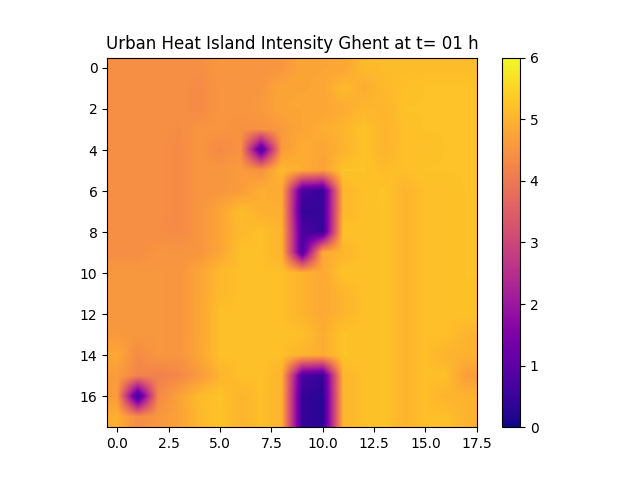
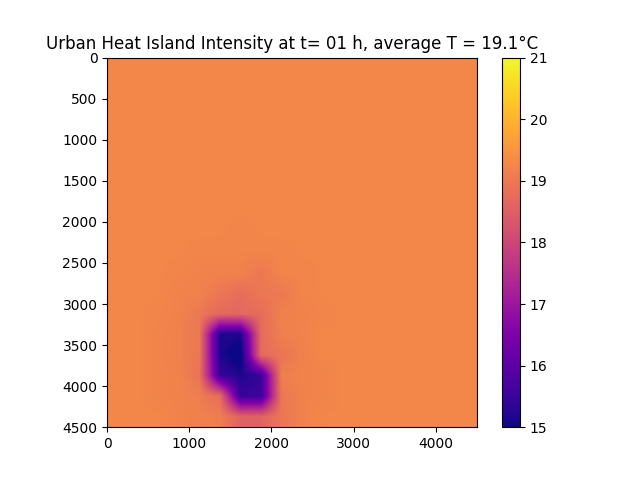
added a ANN model + some details on the buttons

diff --git a/GUI/gui_utility.py b/GUI/gui_utility.py
@@ -63,29 +63,75 @@ class GUI_Main_Page:
         button_frame = tk.Frame(self.root , pady=30)
         self.btn_retake     = CustomButton(button_frame, text = "Retake", state =  self.__get_button_status__(False), command = self.action_retake)
         self.btn_capture    = CustomButton(button_frame, text = "Capture", state = self.__get_button_status__(True), command = self.action_capture)
-        self.btn_submit     = CustomButton(button_frame, text = "Submit", state = self.__get_button_status__(False), command = self.action_submit)
+        #self.btn_submit     = CustomButton(button_frame, text = "Submit", state = self.__get_button_status__(False), command = self.action_submit)
         self.close_extra    = CustomButton(button_frame, text = "Close Extra", state = self.__get_button_status__(True), command = self.action_close_extra_pages)
+        self.btn_send_picture = CustomButton(
+        button_frame, 
+        text="Calculate", 
+        state=self.__get_button_status__(False), 
+        command=self.send_picture_to_server
+        )
+        
+        self.btn_process_display = CustomButton(
+        button_frame, 
+        text="Save", 
+        state=self.__get_button_status__(False), 
+        command=self.process_and_display_image
+        )
 
         self.btn_capture.pack(side=tk.LEFT, padx=(10, 10))
         self.btn_retake.pack(side=tk.LEFT, padx=(0, 10))
-        self.btn_submit.pack(side=tk.LEFT, padx=(0, 10))
+        #self.btn_submit.pack(side=tk.LEFT, padx=(0, 10))        
+        self.btn_send_picture.pack(side=tk.LEFT, padx=(0, 10))
+        self.btn_process_display.pack(side=tk.LEFT, padx=(0, 10))
         self.close_extra.pack(side=tk.LEFT, padx=(0, 10))
         button_frame.pack()
 
 
-        # Dropdown Frame:
-        dropdown_frame = tk.Frame(self.root)
-        dropdown_frame.pack(pady=10)
-
-        # Create Label Field
-        self.label_field = tk.Label(dropdown_frame, text="Choose Scale: ")
-        self.label_field.pack(side=tk.LEFT)
-
-        # Intialize Drop Down Bar
-        json_path = "GUI/Scales.json"
-        json_data = HD_Utility.read_json_file(json_path)
-        self.drop_down = DropDownBar(dropdown_frame, json_data)
-        self.drop_down.create_dropdown()
+# =============================================================================
+#         # Dropdown Frame:
+#         dropdown_frame = tk.Frame(self.root)
+#         dropdown_frame.pack(pady=10)
+# 
+#         # Create Label Field
+#         self.label_field = tk.Label(dropdown_frame, text="Choose Scale: ")
+#         self.label_field.pack(side=tk.LEFT)
+# 
+#         # Intialize Drop Down Bar
+#         json_path = "GUI/Scales.json"
+#         json_data = HD_Utility.read_json_file(json_path)
+#         self.drop_down = DropDownBar(dropdown_frame, json_data)
+#         self.drop_down.create_dropdown()
+# =============================================================================
+        
+        
+        # Dropdown Frame 1:
+        dropdown_frame1 = tk.Frame(self.root)
+        dropdown_frame1.pack(pady=10, padx=(300, 0), side=tk.LEFT)
+        
+        # Create Label Field for Dropdown 1
+        self.label_field1 = tk.Label(dropdown_frame1, text="Choose Scale: ")
+        self.label_field1.pack(side=tk.LEFT)
+        
+        # Initialize Drop Down Bar for Dropdown 1
+        json_path1 = "GUI/Scales.json"
+        json_data1 = HD_Utility.read_json_file(json_path1)
+        self.drop_down1 = DropDownBar(dropdown_frame1, json_data1)
+        self.drop_down1.create_dropdown()
+        
+        # Dropdown Frame 2:
+        dropdown_frame2 = tk.Frame(self.root)
+        dropdown_frame2.pack(pady=10, padx=(250, 0), side=tk.LEFT)
+        
+        # Create Label Field for Dropdown 2
+        self.label_field2 = tk.Label(dropdown_frame2, text="Mode: ")
+        self.label_field2.pack(side=tk.LEFT)
+        
+        # Initialize Drop Down Bar for Dropdown 2
+        json_path2 = "GUI/Modes.json"  # Change this path if you're pulling from a different file
+        json_data2 = HD_Utility.read_json_file(json_path2)
+        self.drop_down2 = DropDownBar(dropdown_frame2, json_data2)
+        self.drop_down2.create_dropdown()
 
         # End of Loop
         self.root.mainloop()
@@ -108,7 +154,9 @@ class GUI_Main_Page:
     def __change_buttons_status__(self, capturing):
         self.btn_capture.config(state = self.__get_button_status__(capturing))
         self.btn_retake.config(state = self.__get_button_status__(not capturing))
-        self.btn_submit.config(state = self.__get_button_status__(not capturing))
+        #self.btn_submit.config(state = self.__get_button_status__(not capturing))
+        self.btn_send_picture.config(state = self.__get_button_status__(not capturing))
+        self.btn_process_display.config(state = self.__get_button_status__(capturing))
 
     def action_capture(self):
         self.__change_buttons_status__(capturing = False)
@@ -137,7 +185,7 @@ class GUI_Main_Page:
         #################### Image Processing ###################
         try:
             # Send the Image to Andrei's Model
-            img_heatmap_processed = back_end_run(img_label, scale)
+            img_heatmap_processed = back_end_run(img_label, scale,'a')
             img_heatmap_processed.save("Heatmap_processed.png")
 
 
@@ -221,3 +269,87 @@ class GUI_Main_Page:
         new_image = self.read_image(self.default_img_path)
         self.label.configure(image=new_image)
         self.label.image = new_image
+        
+        
+        
+        
+        
+        
+    def send_picture_to_server(self):
+        """Function to send the image to the server and receive a heatmap in response."""
+        self.__change_buttons_status__(capturing=True)
+        
+        # Get Panel data
+        scale = float(self.drop_down1.get_selected_value())
+        img_label = self.label.image
+        img_label = ImageTk.getimage(img_label)
+        img_label.save("img_label.png")
+    
+        try:
+            # Send the Image to Andrei's Model
+            img_heatmap_processed = back_end_run(img_label, scale,"a")
+            img_heatmap_processed.save("Heatmap_processed.png")
+            
+            # Update The Image
+            img_heatmap_processed = ImageTk.PhotoImage(img_heatmap_processed)
+            self.label.configure(image=img_heatmap_processed)
+            self.label.image = img_heatmap_processed
+        except Exception as e:
+            print("Exception: Andrei's Code Not Working in gui_utility.py")
+            print(e)
+            img_heatmap_processed = self.read_image()
+    
+        return img_heatmap_processed
+
+    def process_and_display_image(self):
+        img_heatmap_processed = Image.open("Heatmap_processed.png")
+        img_heatmap_processed = ImageTk.PhotoImage(img_heatmap_processed)
+        
+        """Function to process and display the heatmap, create QR code, and display final plots."""
+        
+        # Make a PDF File
+        pdf_file_name = "Sample PDF.pdf"
+        pdf_texts = (self.pdf_texts_json['french'], self.pdf_texts_json['english'], self.pdf_texts_json['dutch'])
+        HD_Utility.create_pdf(("img_label.png", "Heatmap_processed.png"), pdf_texts, pdf_file_name)
+        
+        # Server Uploading
+        file_name_in_drive = f'Analysis_{datetime.now().strftime("%d_%m_%Y_%H_%M_%S")}.jpg'
+        HD_Utility.pdf2jpg(pdf_file_name, file_name_in_drive)
+        url = self.server_handler.upload_new_document(path_to_file=file_name_in_drive)
+        print(f"Uploaded File to: {url}")
+        
+        size = (400, 400)
+        img1 = HD_Utility.load_and_resize_image("GUI/vub.png", size)
+        img3 = HD_Utility.load_and_resize_image("GUI/vub.png", size)
+        img2 = HD_Utility.load_and_resize_image("GUI/vub.png", size)
+
+
+        try:
+        # Cat three plots (img1, img2, qr)
+            img1 = HD_Utility.load_and_resize_image("img_label.png", size)
+            img3 = HD_Utility.load_and_resize_image('qr.png', (200,200))
+            img2 = HD_Utility.load_and_resize_image("Heatmap_processed.png", size)
+
+        except:
+            print("Exception in gui_utility: QR or Heatmap not found.")
+
+        # Merge Plots
+        new_img = HD_Utility.create_concatenated_image(img1, img2, img3)
+        final_plot = ImageTk.PhotoImage(new_img)
+        
+        new_window = tk.Toplevel(self.root)
+        label = tk.Label(new_window, image=final_plot)
+        label.image = final_plot  # keep a reference to the image
+        label.pack()
+        self.new_created_windows.append(new_window)
+
+        # Update The Image
+        final_plot = ImageTk.PhotoImage(new_img)
+        self.label.configure(image=final_plot)
+        self.label.image = final_plot
+        
+    
+    # Example of how to use the functions:
+    # img_heatmap_processed = self.send_picture_to_server()
+    # self.process_and_display_image(img_heatmap_processed)
+

diff --git a/back_end/functions.py b/back_end/functions.py
@@ -37,7 +37,7 @@ def count_value_in_kernel2(matrix, radius):
     kernel_area = (1+radius*2)*(1+radius*2)
 
 
-    sub_rad = int(radius / 5) #250 m
+    sub_rad = int(radius / 4) #250 m
     sub_kernel = generate_circle_kernel(sub_rad)
     kernel_sub_area = (1+sub_rad*2)*(1+sub_rad*2)
 
@@ -151,8 +151,11 @@ def pad_matrix(matrix, r):
 
 
 
-def plot_heatmap(matrix, color, intp, vmin=None, vmax=None):
-    heatmap = plt.imshow(matrix, cmap=color, interpolation=intp, vmin=vmin, vmax=vmax)
+def plot_heatmap(matrix, color, intp, vmin=None, vmax=None, scale=1):
+    # Define the extent for the scaling
+    extent = [0, matrix.shape[1] * scale, matrix.shape[0] * scale, 0]
+    
+    heatmap = plt.imshow(matrix, cmap=color, interpolation=intp, vmin=vmin, vmax=vmax, extent=extent)
     colorbar = plt.colorbar(heatmap)
     plt.show()
     
@@ -292,8 +295,12 @@ def median_filter_custom(image, kernel_size):
 
     return filtered_image
 
-def run_module(image,scale):
+def run_module(image,scale,scenario):
     # takes in a PIL image and a scale (needs to be a an integer)
+    if scenario == "a":
+        time_='2020-09-15 01:00:00'
+    elif  scenario == "b":
+        time_='2020-09-15 14:00:00'
     res = 18
     scale = int(scale)
     start_time = time.time()
@@ -338,7 +345,7 @@ def run_module(image,scale):
     df_reff.loc[0,'GREEN'] = 1.0
     df_reff['Station']= 'vlinder05'
 
-    time_='2020-09-15 01:00:00'
+    
     df_vlinder = pd.read_csv(os.path.join(subdirectory_path,'big_2020_09.csv' ))
     df_vlinder=df_vlinder.rename(columns={"short_wave_from_sky_1hour":"SHORT_WAVE_FROM_SKY_1HOUR","net_radiation_1hour":"NET_RADIATION_1HOUR"})
     df_vlinder=df_vlinder[df_vlinder['Vlinder']=='vlinder05']
@@ -358,11 +365,12 @@ def run_module(image,scale):
 
     T_reff=model.predict(df_reff)
     arr = np.array(temp)
-    arr= arr - T_reff
+    #arr= arr - T_reff
+    T_mid = np.mean(arr)
     xd=np.reshape(arr,(rows,cols))
     fig = plt.figure()
-    functions.plot_heatmap(xd, 'plasma', 'bilinear',vmin=0, vmax=6)
-    plt.title('Urban Heat Island Intensity Ghent at t= 01 h')
+    functions.plot_heatmap(xd, 'plasma', 'bilinear', vmin=15, vmax=21, scale= 1000/scale)
+    plt.title('Urban Heat Island Intensity at t= 01 h, average T = {:.1f}°C'.format(T_mid))
     plt.savefig(os.path.join(subdirectory_path,'output.png'), format='png')
     final_plot = plt_to_image(fig)
     plt.close()
@@ -395,5 +403,109 @@ def plt_to_image(fig):
     image_rgb = image.convert("RGB")
     
     return image_rgb
+
+# =============================================================================
+# def run_module_ANN(image,scale):
+#     from tensorflow.keras.models import load_model
+#     from joblib import load
+# 
+#     
+#     # takes in a PIL image and a scale (needs to be a an integer)
+#     res = 18
+#     scale = int(scale)
+#     start_time = time.time()
+#     color_high_res = png_to_image(image)
+#     low_res = reduce_resolution(color_high_res, 320 , 320)
+#     new_=median_filter_custom(low_res, 6)
+#     low_res = reduce_resolution(new_, res , res)
+#     
+#     low_res_matrix = png_to_image2(low_res)
+#     
+#     cmap=functions.create_green_to_blue_cmap()
+#     plt.figure()
+#     functions.plot_heatmap(low_res_matrix, cmap, 'nearest',vmin=1, vmax=3)
+#     plt.show()
+# 
+# 
+#     #cale = int(scale * 20)
+#     fracs = functions.count_value_in_kernel2(low_res_matrix, scale)
+# 
+#     rows = res
+#     cols = res
+#     
+#     
+#     current_directory = os.getcwd()
+#     subdirectory_name = "back_end/plots"
+#     # Create the path to the subdirectory
+#     subdirectory_path = os.path.join(current_directory, subdirectory_name)
+# 
+#     col_to_keep = ['ALT', 'WATER', 'GREEN', 'IMPERVIOUS', 'WATER_1000', 'GREEN_1000',
+#            'IMPERVIOUS_1000', 'SHORT_WAVE_FROM_SKY_1HOUR', 't2m_inca',
+#            'rel_humid_inca', 'wind_speed_inca', 'max_t2m_inca', 'min_t2m_inca']
+# 
+#     df = pd.DataFrame(fracs)
+#     df=df.rename(columns={0:'WATER_1000', 1:'GREEN_1000', 2:'IMPERVIOUS_1000', 3:'WATER', 4:'GREEN', 5:'IMPERVIOUS',})
+# 
+#     df_reff=df.head(1).copy()
+#     df_reff.loc[0,'WATER_1000'] = 0.0
+#     df_reff.loc[0,'WATER'] = 0.0
+#     df_reff.loc[0,'IMPERVIOUS_1000'] = 0.0
+#     df_reff.loc[0,'IMPERVIOUS'] = 0.0
+#     df_reff.loc[0,'GREEN_1000'] = 1.0
+#     df_reff.loc[0,'GREEN'] = 1.0
+#     df_reff['Station']= 'vlinder05'
+# 
+#     time_='2020-09-15 01:00:00'
+#     df_vlinder = pd.read_csv(os.path.join(subdirectory_path,'big_2020_09.csv' ))
+#     df_vlinder=df_vlinder.rename(columns={"short_wave_from_sky_1hour":"SHORT_WAVE_FROM_SKY_1HOUR","net_radiation_1hour":"NET_RADIATION_1HOUR"})
+#     df_vlinder=df_vlinder[df_vlinder['Vlinder']=='vlinder05']
+#     df_vlinder=df_vlinder[df_vlinder['datetime']==time_]
+#     df_vlinder=df_vlinder[['ALT','SHORT_WAVE_FROM_SKY_1HOUR', 't2m_inca',
+#            'rel_humid_inca', 'wind_speed_inca', 'max_t2m_inca', 'min_t2m_inca','Vlinder']]
+#     df['Station']= 'vlinder05'
+#     df=df.merge(df_vlinder,how='left',left_on='Station',  right_on='Vlinder')
+#     df_reff=df_reff.merge(df_vlinder,how='left',left_on='Station',  right_on='Vlinder')
+#     df=df[col_to_keep]
+#     df_reff=df_reff[col_to_keep]
+#     #dftrain.pop('station')
+#     col_to_scale=['ALT','t2m_inca', 'rel_humid_inca', 'wind_speed_inca',
+#                   'SHORT_WAVE_FROM_SKY_1HOUR','max_t2m_inca', 'min_t2m_inca'] 
+#     main_scaler = joblib.load(os.path.join(subdirectory_path,"minmax_scaler_main.joblib"))
+#     df[col_to_scale]=main_scaler.transform(df[col_to_scale])
+#     
+#     
+# 
+#     from tensorflow.keras.models import load_model
+#     model = load_model(os.path.join(subdirectory_path, "my_ANN_model.h5"))
+#     temp=model.predict(df)
+#     
+#     
+#     temp_scaler = joblib.load(os.path.join(subdirectory_path,"minmax_scaler_temp.joblib"))
+#     temp.reshape(-1, 1) #returns a numpy array
+#     temp=temp_scaler.inverse_transform(temp)
+#     
+# 
+#     T_reff=model.predict(df_reff)
+#     arr = np.array(temp)
+#     #arr= arr - T_reff
+#     T_mid = np.mean(arr)
+#     xd=np.reshape(arr,(rows,cols))
+#     fig = plt.figure()
+#     functions.plot_heatmap(xd, 'plasma', 'bilinear', vmin=16, vmax=21, scale= 1000/scale)
+#     plt.title('Urban Heat Island Intensity at t= 01 h, average T = {:.1f}°C'.format(T_mid))
+#     plt.savefig(os.path.join(subdirectory_path,'output.png'), format='png')
+#     final_plot = plt_to_image(fig)
+#     plt.close()
+# 
+#     end_time = time.time()
+# 
+#     # Calculate the elapsed time
+#     elapsed_time = end_time - start_time
+#     print(f"Elapsed time: {elapsed_time} seconds")
+#     
+#     return final_plot
+# =============================================================================
+
+
 
 
